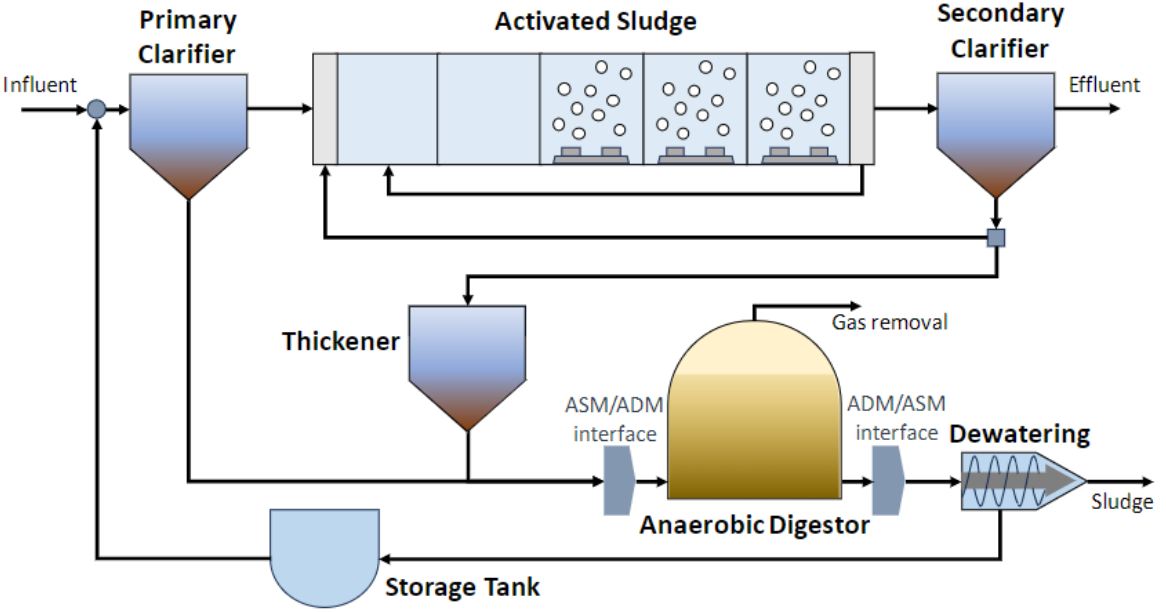
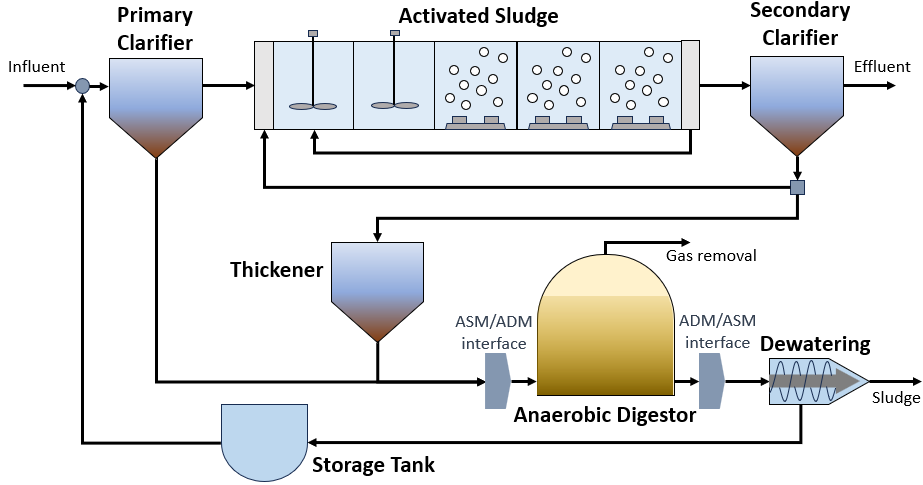
Update BSM2 figures

Changed region(s): [[0.1213, 0.0, 1.0, 1.0], [0.0, 0.1237, 0.2427, 0.9588], [0.1213, 0.0, 0.2124, 0.1237]]

diff --git a/docs/technical_reference/flowsheets/BSM2.rst b/docs/technical_reference/flowsheets/BSM2.rst
@@ -176,7 +176,8 @@ Additional Variables
 
 Additional Constraints
 ----------------------
-The subscript "out" represents the effluent from the secondary clarifier
+The following constraints represent concentration limits on treated water (secondary effluent) discharged into the environment.
+The subscript "out" represents the effluent from the secondary clarifier.
 
 .. csv-table::
    :header: "Description", "Equation"

diff --git a/docs/technical_reference/flowsheets/extended_BSM2.rst b/docs/technical_reference/flowsheets/extended_BSM2.rst
@@ -35,7 +35,7 @@ The flowsheet relies on the following key assumptions:
    * property and reaction package are provided for the anaerobic digester model (ADM)
    * interfaces are provided to convert between the properties of ASM and ADM
 
-.. figure:: ../../_static/flowsheets/BSM2.png
+.. figure:: ../../_static/flowsheets/extended_BSM2.png
     :width: 800
     :align: center
 
